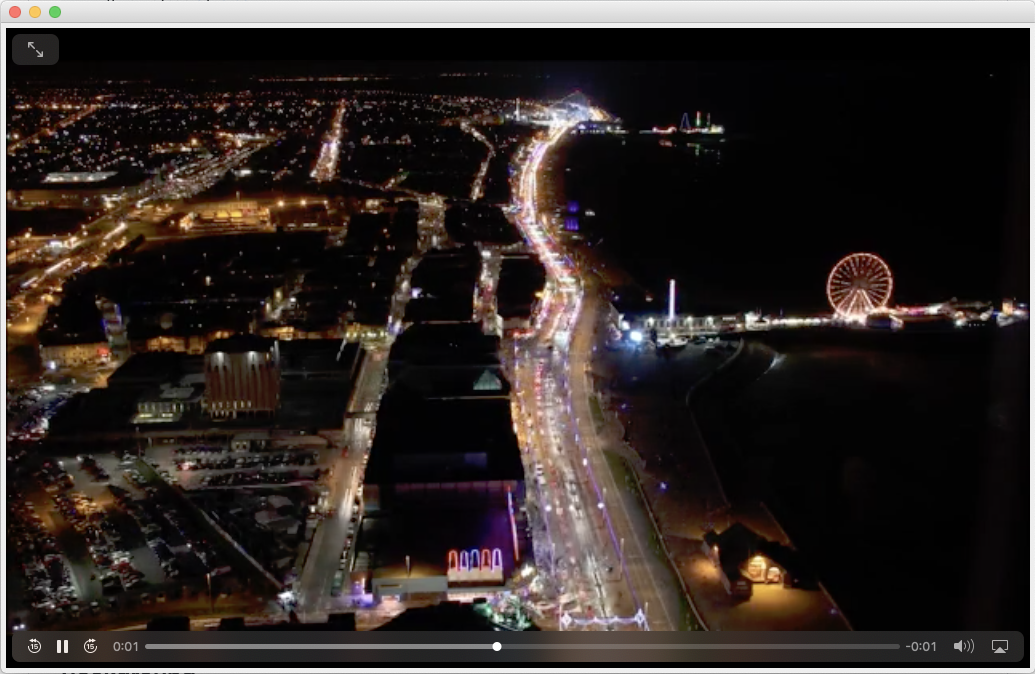
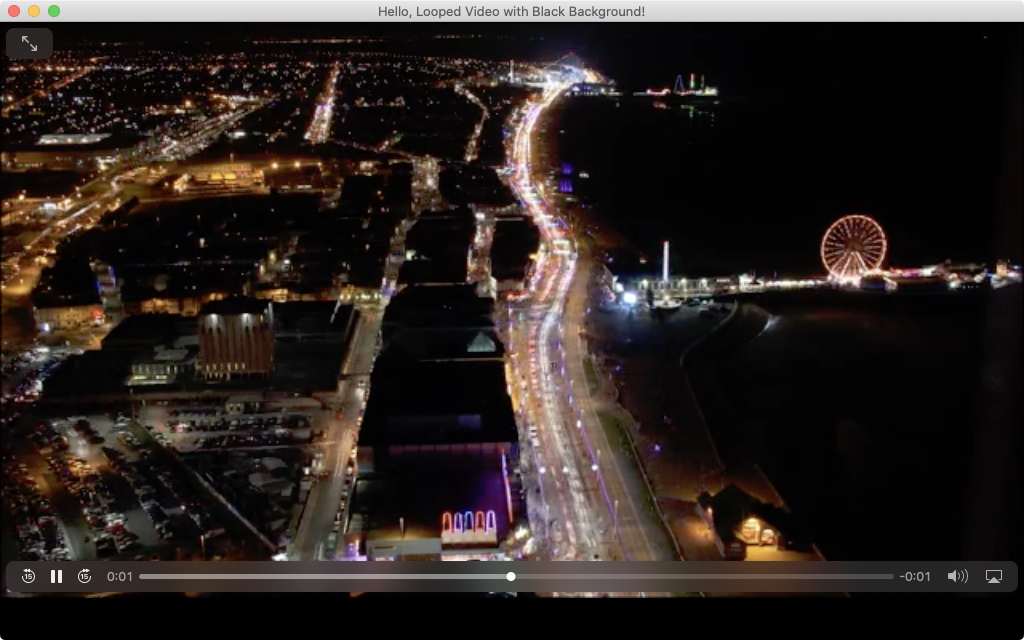
Upgraded glimmer-dsl-swt, glimmer-dsl-xml, and glimmer-dsl-css; and fixed issue with configuring samples (removed it since it is now automatic)

diff --git a/samples/video/hello_video_observers.rb b/samples/video/hello_video_observers.rb
@@ -12,7 +12,9 @@ def display_video_status(video, status)
 end
 
 @shell = shell {
+  text 'Hello, Video Observers!'
   minimum_size 800, 500
+
   @video = video(file: video_file, background: :black) {
     on_swt_show { |event|
       # set focus as soon as the SWT widget is shown to grab keyboard events below

diff --git a/samples/video/hello_looped_video_with_black_background.rb b/samples/video/hello_looped_video_with_black_background.rb
@@ -5,6 +5,8 @@ include Glimmer
 video_file = File.expand_path('../videos/Blackpool_Timelapse.mp4', __FILE__)
 
 shell {
+  text 'Hello, Looped Video with Black Background!'
   minimum_size 1024, 640
+
   video(file: video_file, looped: true, background: :black)
 }.open

diff --git a/samples/video/hello_video.rb b/samples/video/hello_video.rb
@@ -5,5 +5,8 @@ include Glimmer
 video_file = File.expand_path('../videos/Clouds_passing_by_CCBY_NatureClip.mp4', __FILE__)
 
 shell {
+  text 'Hello, Video!'
+  minimum_size 384, 240
+  
   video(file: video_file)
 }.open

diff --git a/lib/glimmer-cw-video.rb b/lib/glimmer-cw-video.rb
@@ -4,5 +4,3 @@ require 'glimmer-dsl-swt'
 require 'glimmer-dsl-xml'
 require 'glimmer-dsl-css'
 require 'views/glimmer/video'
-
-Glimmer::Config::SAMPLE_DIRECTORIES << File.expand_path('../../samples/video', __FILE__)

diff --git a/README.md b/README.md
@@ -1,4 +1,4 @@
-# Video 1.0.0
+# Video 1.1.0
 ## [<img src="https://raw.githubusercontent.com/AndyObtiva/glimmer/master/images/glimmer-logo-hi-res.png" height=40 /> Glimmer Custom Widget](https://github.com/AndyObtiva/glimmer#custom-widget-gem)
 [![Gem Version](https://badge.fury.io/rb/glimmer-cw-video.svg)](http://badge.fury.io/rb/glimmer-cw-video)
 [![Travis CI](https://travis-ci.com/AndyObtiva/glimmer-cw-video.svg?branch=master)](https://travis-ci.com/github/AndyObtiva/glimmer-cw-video)
@@ -29,7 +29,7 @@ This has been tested and confirmed to be working on:
 Add the following to a Glimmer application `Gemfile`:
 
 ```ruby
-gem 'glimmer-cw-video', '1.0.0'
+gem 'glimmer-cw-video', '1.1.0'
 ```
 
 Run:
@@ -112,8 +112,16 @@ glimmer sample:run[hello_video]
 Glimmer Code (from [samples/video/hello_video.rb](samples/video/hello_video.rb)):
 
 ```ruby
-# ...
+require_relative '../../lib/glimmer-cw-video'
+
+include Glimmer
+
+video_file = File.expand_path('../videos/Clouds_passing_by_CCBY_NatureClip.mp4', __FILE__)
+
 shell {
+  text 'Hello, Video!'
+  minimum_size 384, 240
+  
   video(file: video_file)
 }.open
 ```
@@ -133,9 +141,16 @@ glimmer sample:run[hello_looped_video_with_black_background]
 Glimmer Code (from [samples/video/hello_looped_video_with_black_background.rb](samples/video/hello_looped_video_with_black_background.rb)):
 
 ```ruby
-# ...
+require_relative '../../lib/glimmer-cw-video'
+
+include Glimmer
+
+video_file = File.expand_path('../videos/Blackpool_Timelapse.mp4', __FILE__)
+
 shell {
+  text 'Hello, Looped Video with Black Background!'
   minimum_size 1024, 640
+
   video(file: video_file, looped: true, background: :black)
 }.open
 ```
@@ -155,7 +170,6 @@ glimmer sample:run[hello_video_observers]
 Glimmer Code (from [samples/video/hello_video_observers.rb](samples/video/hello_video_observers.rb)):
 
 ```ruby
-# ...
 require_relative '../../lib/glimmer-cw-video'
 
 include Glimmer
@@ -170,7 +184,9 @@ def display_video_status(video, status)
 end
 
 @shell = shell {
+  text 'Hello, Video Observers!'
   minimum_size 800, 500
+
   @video = video(file: video_file, background: :black) {
     on_swt_show { |event|
       # set focus as soon as the SWT widget is shown to grab keyboard events below
@@ -211,6 +227,18 @@ end
 Glimmer App:
 
 ![glimmer cw video hello video observers](images/glimmer-cw-video-hello-video-observers.png)
+
+Dialog for video playing event:
+
+![glimmer cw video hello video observers](images/glimmer-cw-video-hello-video-observers-playing-event.png)
+
+Dialog for video paused event:
+
+![glimmer cw video hello video observers](images/glimmer-cw-video-hello-video-observers-paused-event.png)
+
+Dialog for video ended event:
+
+![glimmer cw video hello video observers](images/glimmer-cw-video-hello-video-observers-ended-event.png)
 
 ## TODO
 

diff --git a/CHANGELOG.md b/CHANGELOG.md
@@ -1,5 +1,10 @@
 # Change Log
 
+## 1.1.0
+
+- Upgraded glimmer-dsl-swt, glimmer-dsl-xml, and glimmer-dsl-css
+- Fix issue with failing to configure samples for glimmer-dsl-swt since it does not support sample configuration anymore because it became automatic
+
 ## 1.0.0
 
 - Upgraded to Glimmer DSL for SWT 4.17.0.0
